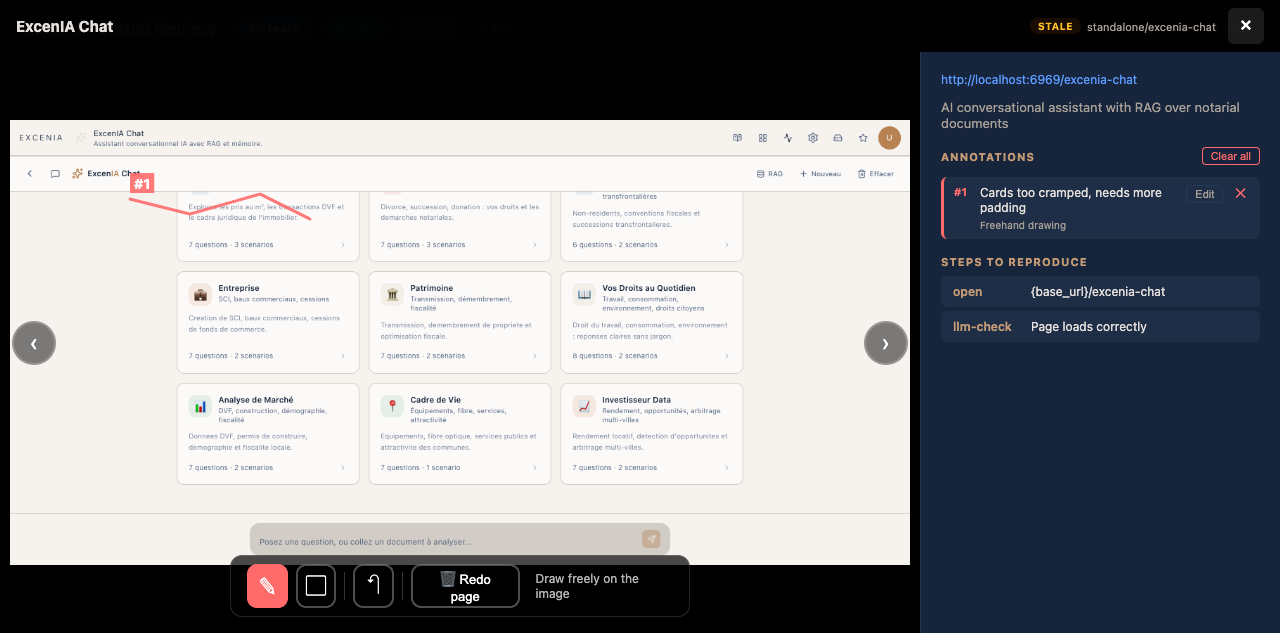
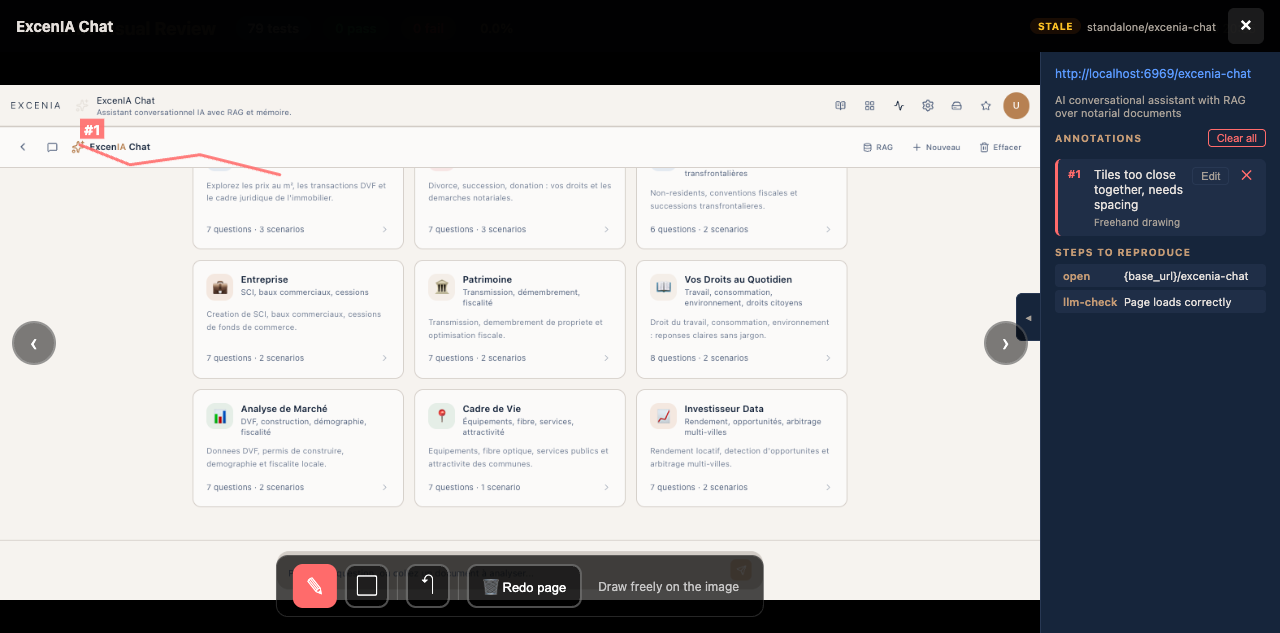
feat(review): larger image, collapsible panel, zoom, updated screenshots
- Detail panel reduced 360→240px, collapsible via toggle button
- Mouse wheel zoom (1x-4x) on lightbox image
- Zoom resets on test change
- Panel text sizes reduced for compactness
- README screenshots recaptured with distinct states:
  grid, annotation+note, collapsed fullscreen

Changed region(s): [[0.0, 0.06, 1.0, 1.0]]

diff --git a/plugins/agentic-visual-debugger/skills/visual-review/_review-template.html b/plugins/agentic-visual-debugger/skills/visual-review/_review-template.html
@@ -104,7 +104,8 @@ body{background:var(--bg);color:var(--fg);font-family:'DM Sans',system-ui,sans-s
 .lb-body{flex:1;display:flex;overflow:hidden}
 .lb-img-area{flex:1;position:relative;display:flex;align-items:center;justify-content:center;overflow:auto;background:#000}
 .lb-img-container{position:relative;display:inline-block;max-width:100%;max-height:100%}
-.lb-img{max-width:calc(100vw - 380px);max-height:calc(100vh - 56px);object-fit:contain;display:block}
+.lb-img{max-width:100%;max-height:calc(100vh - 56px);object-fit:contain;display:block;transition:transform .15s ease}
+.lb-img-container{transform-origin:center center}
 .lb-canvas{position:absolute;top:0;left:0;width:100%;height:100%;pointer-events:none;z-index:2}
 .lb-canvas.drawing{pointer-events:auto;cursor:crosshair}
 
@@ -135,13 +136,17 @@ body{background:var(--bg);color:var(--fg);font-family:'DM Sans',system-ui,sans-s
 .success-box code{background:var(--secondary);padding:4px 12px;border-radius:6px;font-size:15px;color:var(--primary);font-weight:700}
 .success-box-hint{font-size:12px;color:var(--muted);margin-top:16px}
 
-/* Detail sidebar in lightbox */
-.lb-detail{width:360px;background:var(--card);border-left:1px solid var(--border);overflow-y:auto;padding:20px;flex-shrink:0}
-.lb-desc{font-size:13px;color:var(--muted);margin-bottom:16px}
-.lb-section{margin-bottom:16px}
-.lb-section-title{font-size:11px;font-weight:700;text-transform:uppercase;letter-spacing:1px;color:var(--primary);margin-bottom:8px}
-.lb-step{padding:8px 12px;background:var(--secondary);border-radius:6px;margin-bottom:4px;font-size:12px;display:flex;gap:8px}
-.lb-step-action{color:var(--primary);font-weight:600;min-width:70px}
+/* Detail sidebar in lightbox — compact, collapsible */
+.lb-detail{width:240px;background:var(--card);border-left:1px solid var(--border);overflow-y:auto;padding:14px;flex-shrink:0;transition:width .2s ease,padding .2s ease}
+.lb-detail.collapsed{width:0;padding:0;overflow:hidden;border:none}
+.lb-toggle-detail{position:absolute;top:50%;right:240px;transform:translateY(-50%);width:24px;height:48px;border-radius:6px 0 0 6px;background:var(--card);border:1px solid var(--border);border-right:none;color:var(--muted);font-size:14px;cursor:pointer;display:flex;align-items:center;justify-content:center;z-index:3;transition:right .2s ease}
+.lb-detail.collapsed ~ .lb-toggle-detail,.lb-toggle-detail.shifted{right:0}
+.lb-toggle-detail:hover{color:var(--fg);background:var(--secondary)}
+.lb-desc{font-size:11px;color:var(--muted);margin-bottom:10px}
+.lb-section{margin-bottom:10px}
+.lb-section-title{font-size:10px;font-weight:700;text-transform:uppercase;letter-spacing:1px;color:var(--primary);margin-bottom:6px}
+.lb-step{padding:5px 8px;background:var(--secondary);border-radius:4px;margin-bottom:3px;font-size:11px;display:flex;gap:6px}
+.lb-step-action{color:var(--primary);font-weight:600;min-width:55px}
 .lb-step-detail{color:var(--fg)}
 .lb-failure{padding:12px;background:#ff6b6b15;border:1px solid #ff6b6b33;border-radius:6px;color:var(--fail);font-size:13px;margin-bottom:16px}
 .lb-url{font-size:12px;color:var(--info);margin-bottom:12px;word-break:break-all}
@@ -259,6 +264,7 @@ body{background:var(--bg);color:var(--fg);font-family:'DM Sans',system-ui,sans-s
         <span class="pen-mode-label" id="pen-mode-label">Click a tool to annotate</span>
       </div>
     </div>
+    <button class="lb-toggle-detail" id="lb-toggle-detail" title="Toggle info panel">&#9666;</button>
     <div class="lb-detail" id="lb-detail">
       <div class="lb-ba" id="lb-ba" style="display:none">
         <span class="lb-ba-label">View:</span>
@@ -785,6 +791,7 @@ var __VISUAL_DATA__ = "__PLACEHOLDER_VISUAL_DATA__";
     }
 
     lb.classList.add('visible');
+    if (typeof resetZoom === 'function') resetZoom();
     if (window._annotSetup) window._annotSetup(id);
   }
 
@@ -920,6 +927,38 @@ var __VISUAL_DATA__ = "__PLACEHOLDER_VISUAL_DATA__";
     else if (e.key === 'z') { e.preventDefault(); document.getElementById('pen-undo').click(); }
     else if (e.key === 'd') { e.preventDefault(); document.getElementById('pen-redo').click(); }
   });
+
+  // ── Detail panel toggle ──
+  document.getElementById('lb-toggle-detail').addEventListener('click', function() {
+    var detail = document.getElementById('lb-detail');
+    detail.classList.toggle('collapsed');
+    this.textContent = detail.classList.contains('collapsed') ? '\u25B8' : '\u25C2';
+    this.style.right = detail.classList.contains('collapsed') ? '0' : '240px';
+    // Resize canvas after panel toggle
+    setTimeout(function(){ if(window._annotSetup && currentTestId) window._annotSetup(currentTestId); }, 250);
+  });
+
+  // ── Zoom (mouse wheel on image) ──
+  var zoomLevel = 1;
+  var zoomMin = 1, zoomMax = 4;
+  document.getElementById('lb-img-area').addEventListener('wheel', function(e) {
+    if (!document.getElementById('lightbox').classList.contains('visible')) return;
+    e.preventDefault();
+    var delta = e.deltaY > 0 ? -0.15 : 0.15;
+    zoomLevel = Math.max(zoomMin, Math.min(zoomMax, zoomLevel + delta));
+    var container = document.getElementById('lb-img-container');
+    container.style.transform = zoomLevel === 1 ? '' : 'scale('+zoomLevel+')';
+    // Resize canvas to match
+    setTimeout(function(){ if(window._annotSetup && currentTestId) window._annotSetup(currentTestId); }, 100);
+  }, {passive:false});
+  // Reset zoom on test change
+  var _origAnnotSetup = window._annotSetup;
+  // Reset zoom when opening a new test
+  function resetZoom() {
+    zoomLevel = 1;
+    var container = document.getElementById('lb-img-container');
+    if (container) container.style.transform = '';
+  }
 
   // ── localStorage persistence ──
   var STORAGE_KEY = 'visual-review-session';
